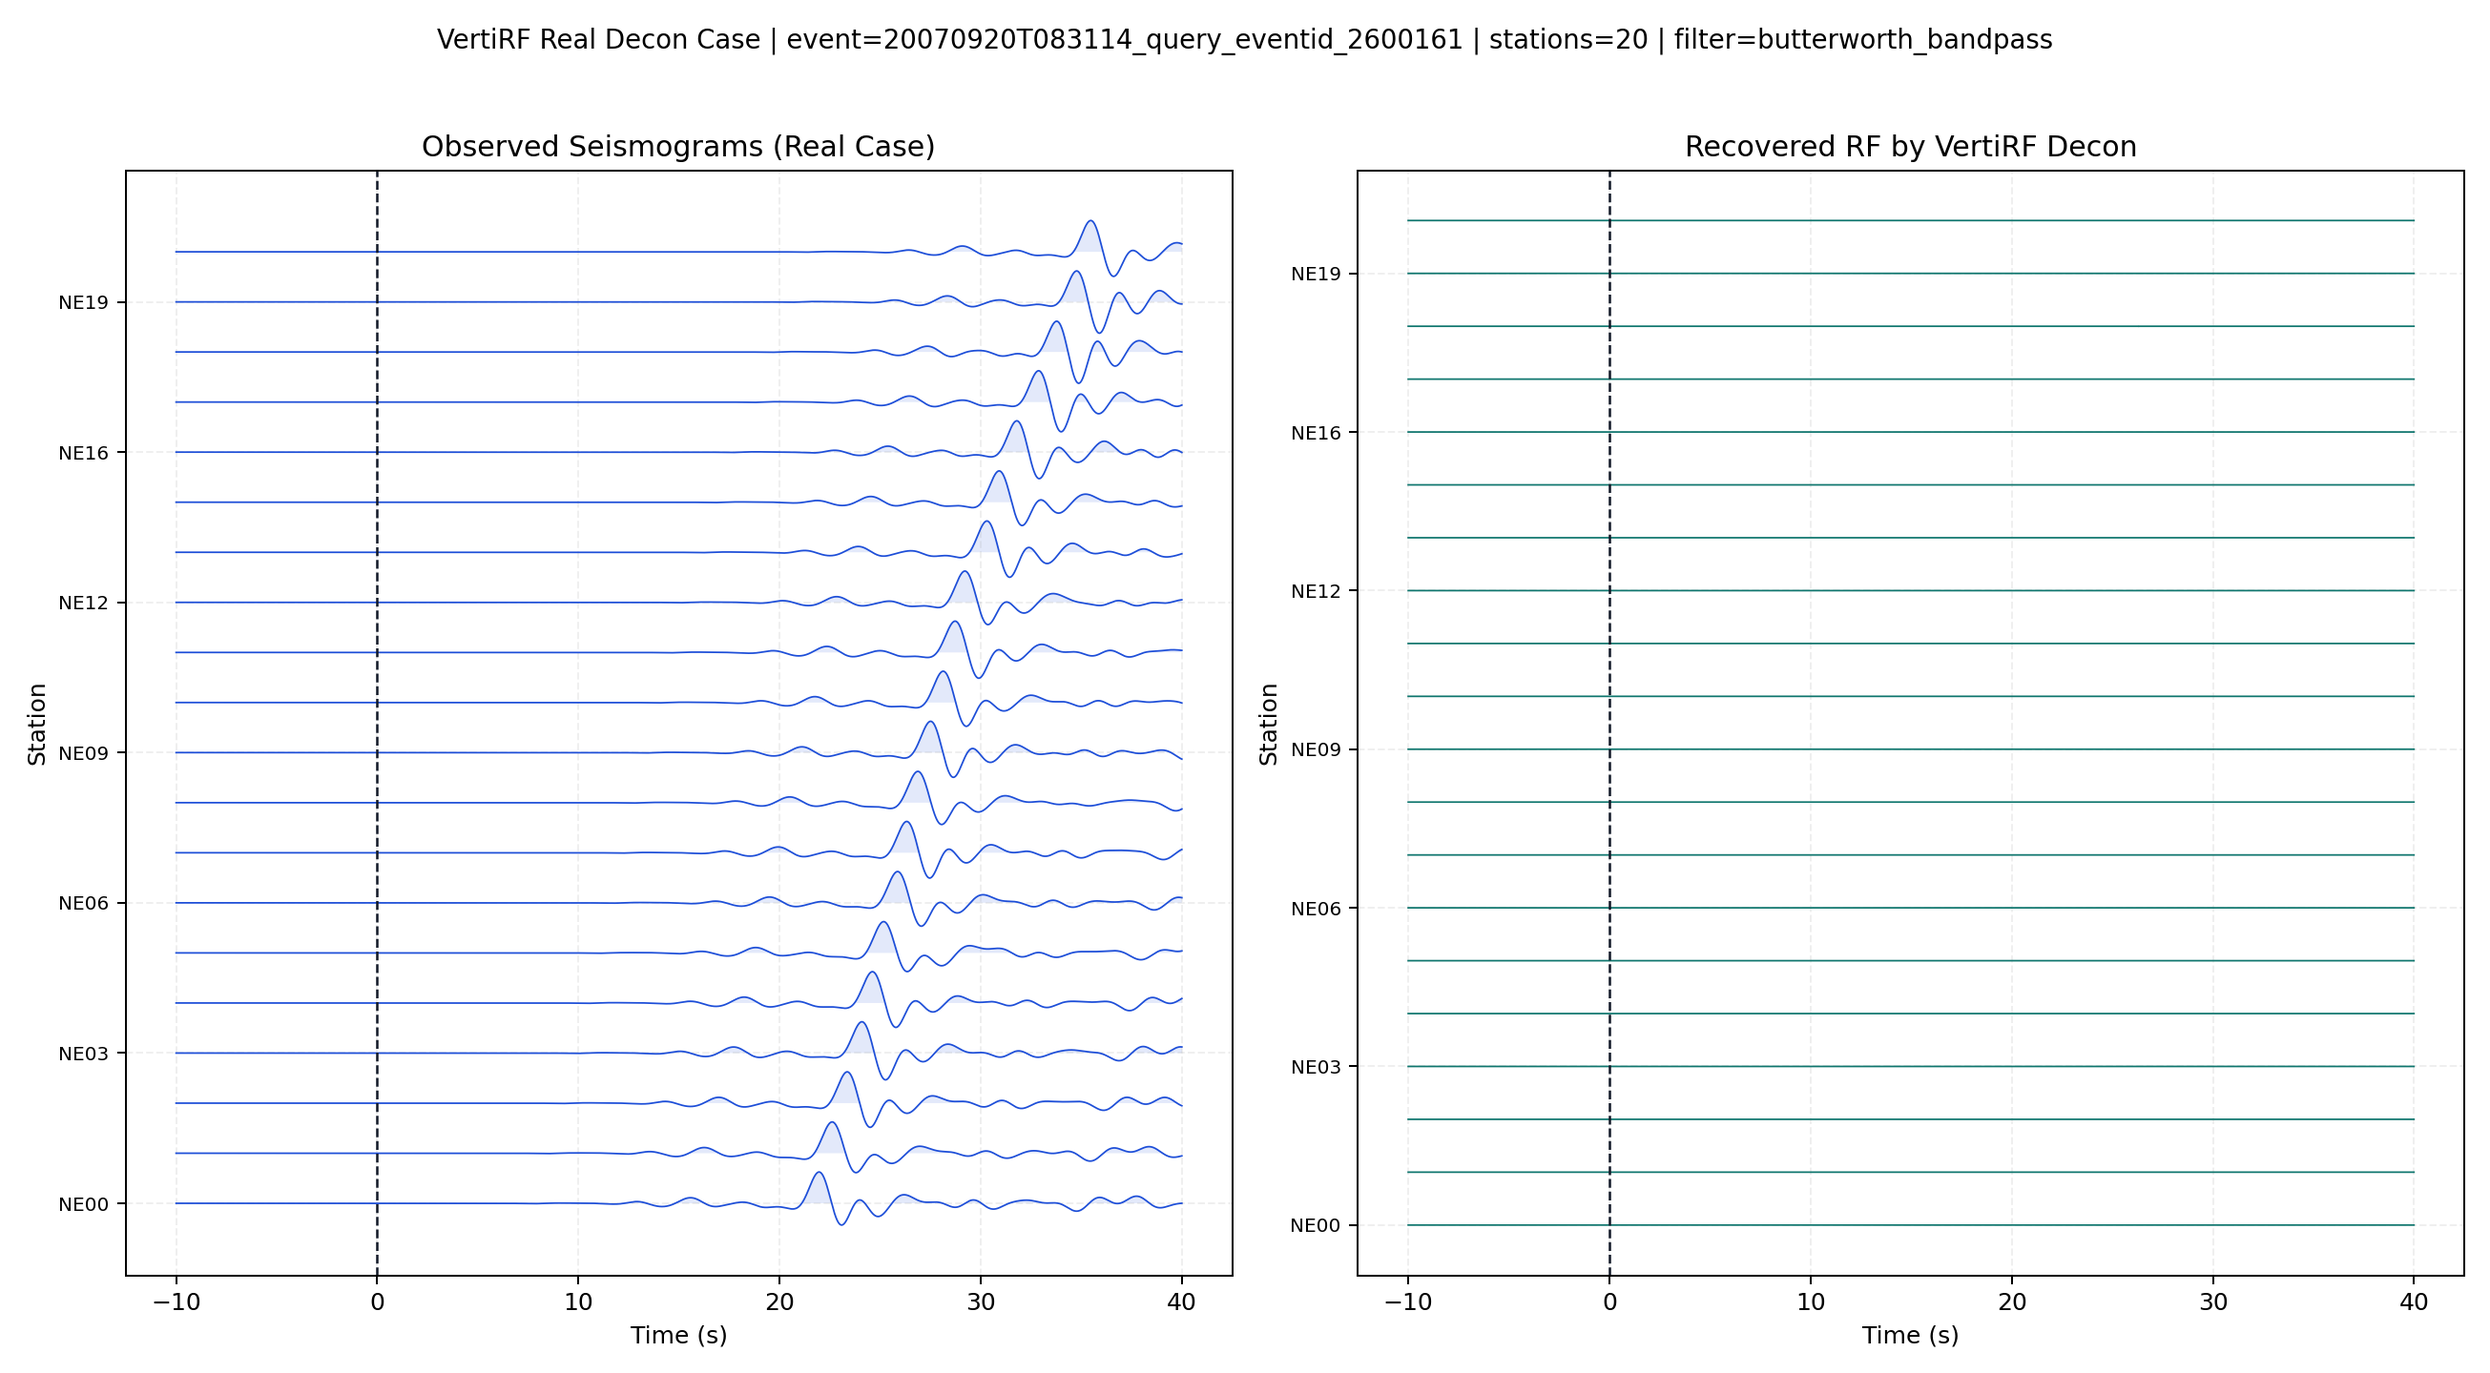
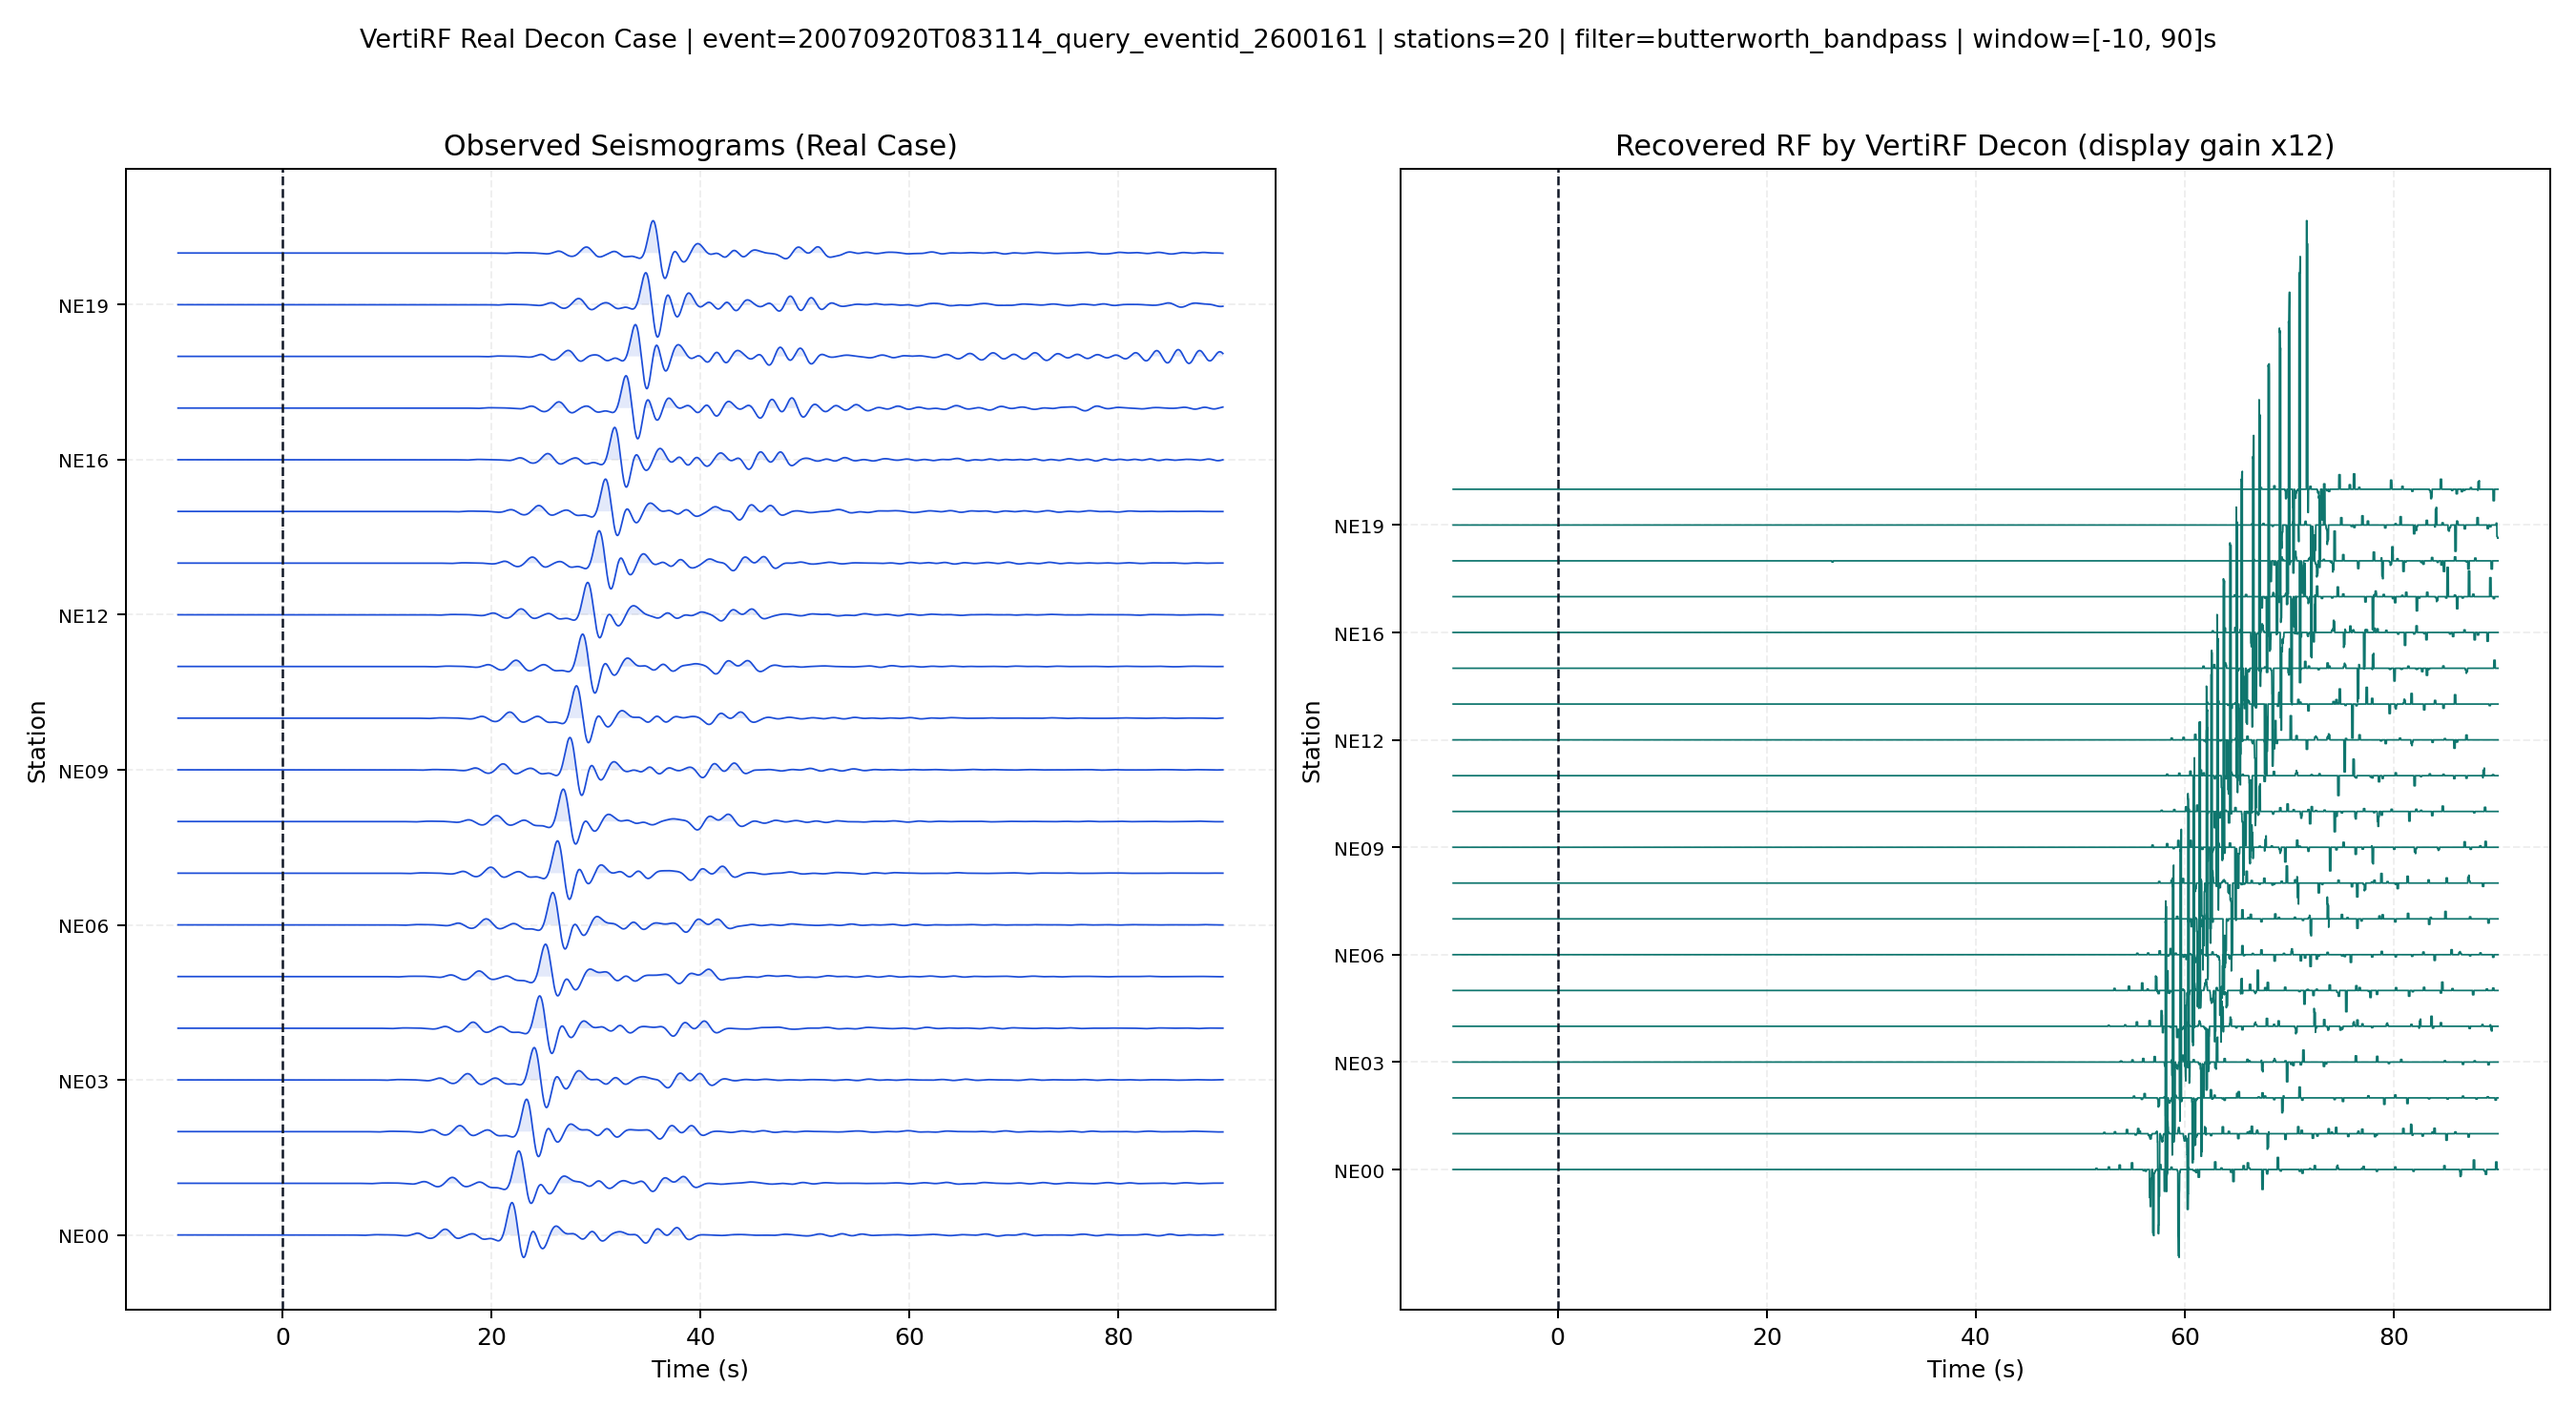
docs: improve real-case wiggle visibility with longer window and RF display gain

diff --git a/scripts/generate_real_case_wiggle.py b/scripts/generate_real_case_wiggle.py
@@ -15,7 +15,9 @@ from vertirf.filters.zero_phase import FilterSpec
 
 
 def parse_args() -> argparse.Namespace:
-    p = argparse.ArgumentParser(description="Generate real-case wiggle plot for VertiRF project intro")
+    p = argparse.ArgumentParser(
+        description="Generate real-case wiggle plot for VertiRF project intro"
+    )
     p.add_argument(
         "--input-dir",
         default=r"D:\works_2\seismic_data_retrieval_1\data\prompt19\p14_like_lowpass_t200\convolved_npz",
@@ -24,7 +26,7 @@ def parse_args() -> argparse.Namespace:
     p.add_argument("--component", choices=["z", "r"], default="z")
     p.add_argument("--stations", type=int, default=20)
     p.add_argument("--time-start-sec", type=float, default=-10.0)
-    p.add_argument("--time-end-sec", type=float, default=40.0)
+    p.add_argument("--time-end-sec", type=float, default=90.0)
     p.add_argument("--itmax", type=int, default=260)
     p.add_argument("--minderr", type=float, default=1e-3)
     p.add_argument("--jobs", type=int, default=4)
@@ -33,6 +35,18 @@ def parse_args() -> argparse.Namespace:
     p.add_argument("--high-hz", type=float, default=0.8)
     p.add_argument("--corners", type=int, default=4)
     p.add_argument("--allow-negative-impulse", action="store_true")
+    p.add_argument(
+        "--rf-display-gain",
+        type=float,
+        default=12.0,
+        help="Display gain for recovered RF panel only",
+    )
+    p.add_argument(
+        "--rf-smooth-samples",
+        type=int,
+        default=9,
+        help="Odd moving-average length for RF display only (0/1 disables)",
+    )
     p.add_argument("--out", default="assets/real_case_wiggle.png")
     p.add_argument("--meta-out", default="assets/real_case_wiggle.json")
     p.add_argument("--dpi", type=int, default=180)
@@ -65,20 +79,47 @@ def _normalize_rows(x: np.ndarray) -> np.ndarray:
     return arr / den
 
 
-def _plot_wiggle(ax: plt.Axes, mat: np.ndarray, t: np.ndarray, labels: list[str], title: str, color: str) -> None:
+def _smooth_rows(x: np.ndarray, win: int) -> np.ndarray:
+    arr = np.asarray(x, dtype=np.float64)
+    w = int(win)
+    if w <= 1:
+        return arr
+    if w % 2 == 0:
+        w += 1
+    ker = np.ones((w,), dtype=np.float64) / float(w)
+    out = np.zeros_like(arr)
+    for i in range(arr.shape[0]):
+        out[i] = np.convolve(arr[i], ker, mode="same")
+    return out
+
+
+def _plot_wiggle(
+    ax: plt.Axes,
+    mat: np.ndarray,
+    t: np.ndarray,
+    labels: list[str],
+    title: str,
+    color: str,
+    gain: float,
+) -> None:
     n = mat.shape[0]
     spacing = 1.6
+    disp = np.asarray(mat, dtype=np.float64) * float(gain)
+
     for i in range(n):
-        ax.plot(t, mat[i] + i * spacing, color=color, lw=0.7)
+        y0 = i * spacing
+        y = disp[i] + y0
+        ax.plot(t, y, color=color, lw=0.7)
         ax.fill_between(
             t,
-            i * spacing,
-            mat[i] + i * spacing,
-            where=(mat[i] + i * spacing) >= (i * spacing),
+            y0,
+            y,
+            where=y >= y0,
             color=color,
             alpha=0.12,
             linewidth=0,
         )
+
     tick_idx = np.arange(0, n, max(1, n // 6), dtype=int)
     ax.set_yticks(tick_idx * spacing)
     ax.set_yticklabels([labels[i] for i in tick_idx], fontsize=8)
@@ -103,9 +144,7 @@ def main() -> int:
         source = np.asarray(d["wavelet_amp"], dtype=np.float64)
         dt = float(d["dt_sec"]) if "dt_sec" in d else float(np.median(np.diff(time_sec)))
 
-    n_samples = source.size
-    if comp.shape[0] < n_samples:
-        n_samples = comp.shape[0]
+    n_samples = min(source.size, comp.shape[0])
     source = source[:n_samples]
     source = source / (np.max(np.abs(source)) + 1e-12)
 
@@ -139,24 +178,53 @@ def main() -> int:
         mode="optimized",
         jobs=max(1, int(args.jobs)),
     )
+
     recovered = _normalize_rows(recovered)
+    recovered_disp = _smooth_rows(recovered, int(args.rf_smooth_samples))
+    recovered_disp = _normalize_rows(recovered_disp)
 
     t_rel = time_sec[:n_samples][idx_t]
     obs_plot = observed[:, idx_t]
-    rec_plot = recovered[:, idx_t]
+    rec_plot = recovered_disp[:, idx_t]
     labels = [str(station_codes[i]) for i in station_idx]
 
-    fig, axes = plt.subplots(1, 2, figsize=(14.5, 8.0), dpi=max(100, int(args.dpi)), sharex=True)
-    _plot_wiggle(axes[0], obs_plot, t_rel, labels, "Observed Seismograms (Real Case)", "#1d4ed8")
-    _plot_wiggle(axes[1], rec_plot, t_rel, labels, "Recovered RF by VertiRF Decon", "#0f766e")
+    fig, axes = plt.subplots(
+        1,
+        2,
+        figsize=(15.0, 8.2),
+        dpi=max(100, int(args.dpi)),
+        sharex=True,
+    )
+    _plot_wiggle(
+        axes[0],
+        obs_plot,
+        t_rel,
+        labels,
+        "Observed Seismograms (Real Case)",
+        "#1d4ed8",
+        gain=1.0,
+    )
+    _plot_wiggle(
+        axes[1],
+        rec_plot,
+        t_rel,
+        labels,
+        f"Recovered RF by VertiRF Decon (display gain x{float(args.rf_display_gain):g})",
+        "#0f766e",
+        gain=float(args.rf_display_gain),
+    )
 
     for ax in axes:
         ax.axvline(0.0, color="#111827", ls="--", lw=1.0)
         ax.set_xlabel("Time (s)")
 
     fig.suptitle(
-        f"VertiRF Real Decon Case | event={event_id} | stations={n_stations} | filter={args.filter_type}",
-        fontsize=11,
+        (
+            "VertiRF Real Decon Case | "
+            f"event={event_id} | stations={n_stations} | filter={args.filter_type} | "
+            f"window=[{float(args.time_start_sec):g}, {float(args.time_end_sec):g}]s"
+        ),
+        fontsize=10.8,
     )
     fig.tight_layout(rect=[0, 0, 1, 0.96])
 
@@ -164,6 +232,10 @@ def main() -> int:
     out_png.parent.mkdir(parents=True, exist_ok=True)
     fig.savefig(out_png)
     plt.close(fig)
+
+    # Extract peak time distribution for visibility diagnostics.
+    rec_peaks_idx = np.argmax(np.abs(recovered), axis=1)
+    rec_peak_times = time_sec[:n_samples][rec_peaks_idx]
 
     meta = {
         "event_file": str(event_file),
@@ -176,8 +248,12 @@ def main() -> int:
         "itmax": int(args.itmax),
         "minderr": float(args.minderr),
         "jobs": int(args.jobs),
+        "rf_display_gain": float(args.rf_display_gain),
+        "rf_smooth_samples": int(args.rf_smooth_samples),
         "success_count": int(np.count_nonzero(ok)),
         "mean_iterations": float(np.mean(iters.astype(np.float64))),
+        "rf_peak_time_sec_min": float(np.min(rec_peak_times)),
+        "rf_peak_time_sec_max": float(np.max(rec_peak_times)),
         "output_png": str(out_png),
     }
 

diff --git a/README.md b/README.md
@@ -27,22 +27,22 @@ VertiRF 是一个独立开源项目，用于垂向接收函数流程中的 time-
 
 English
 
-The following wiggle plot is generated from a real event case (`prompt19` convolved event NPZ source), using VertiRF optimized decon workflow. Left panel is observed seismograms, right panel is recovered RF.
+The following wiggle plot is generated from a real event case (`prompt19` convolved event NPZ source), using VertiRF optimized decon workflow. Left panel is observed seismograms, right panel is recovered RF (display gain + smoothing for visualization).
 
 Chinese
 
-下图基于真实案例（`prompt19` 的事件卷积结果）由 VertiRF 优化反卷积流程生成。左图为观测地震记录，右图为反卷积恢复的接收函数（RF）。
+下图基于真实案例（`prompt19` 的事件卷积结果）由 VertiRF 优化反卷积流程生成。左图为观测地震记录，右图为反卷积恢复的接收函数（RF，展示时做了增益与轻微平滑，仅用于可视化）。
 
 ![VertiRF real decon case wiggle](assets/real_case_wiggle.png)
 
-Regenerate command:
-
+Regenerate command (default window extended to 90s):
 ```bash
 python scripts/generate_real_case_wiggle.py \
   --input-dir D:\works_2\seismic_data_retrieval_1\data\prompt19\p14_like_lowpass_t200\convolved_npz \
   --stations 20 --component z \
   --filter-type butterworth_bandpass --low-hz 0.1 --high-hz 0.8 \
-  --allow-negative-impulse \
+  --allow-negative-impulse --time-end-sec 90 \
+  --rf-display-gain 12 --rf-smooth-samples 9 \
   --out assets/real_case_wiggle.png
 ```
 
@@ -159,4 +159,5 @@ Pipeline includes:
 - [architecture.md](architecture.md): requirements and technical architecture.
 - [tasks.md](tasks.md): staged development tasks and acceptance criteria.
 - [AGENTS.md](AGENTS.md): AI agent execution rules for this project.
+
 
